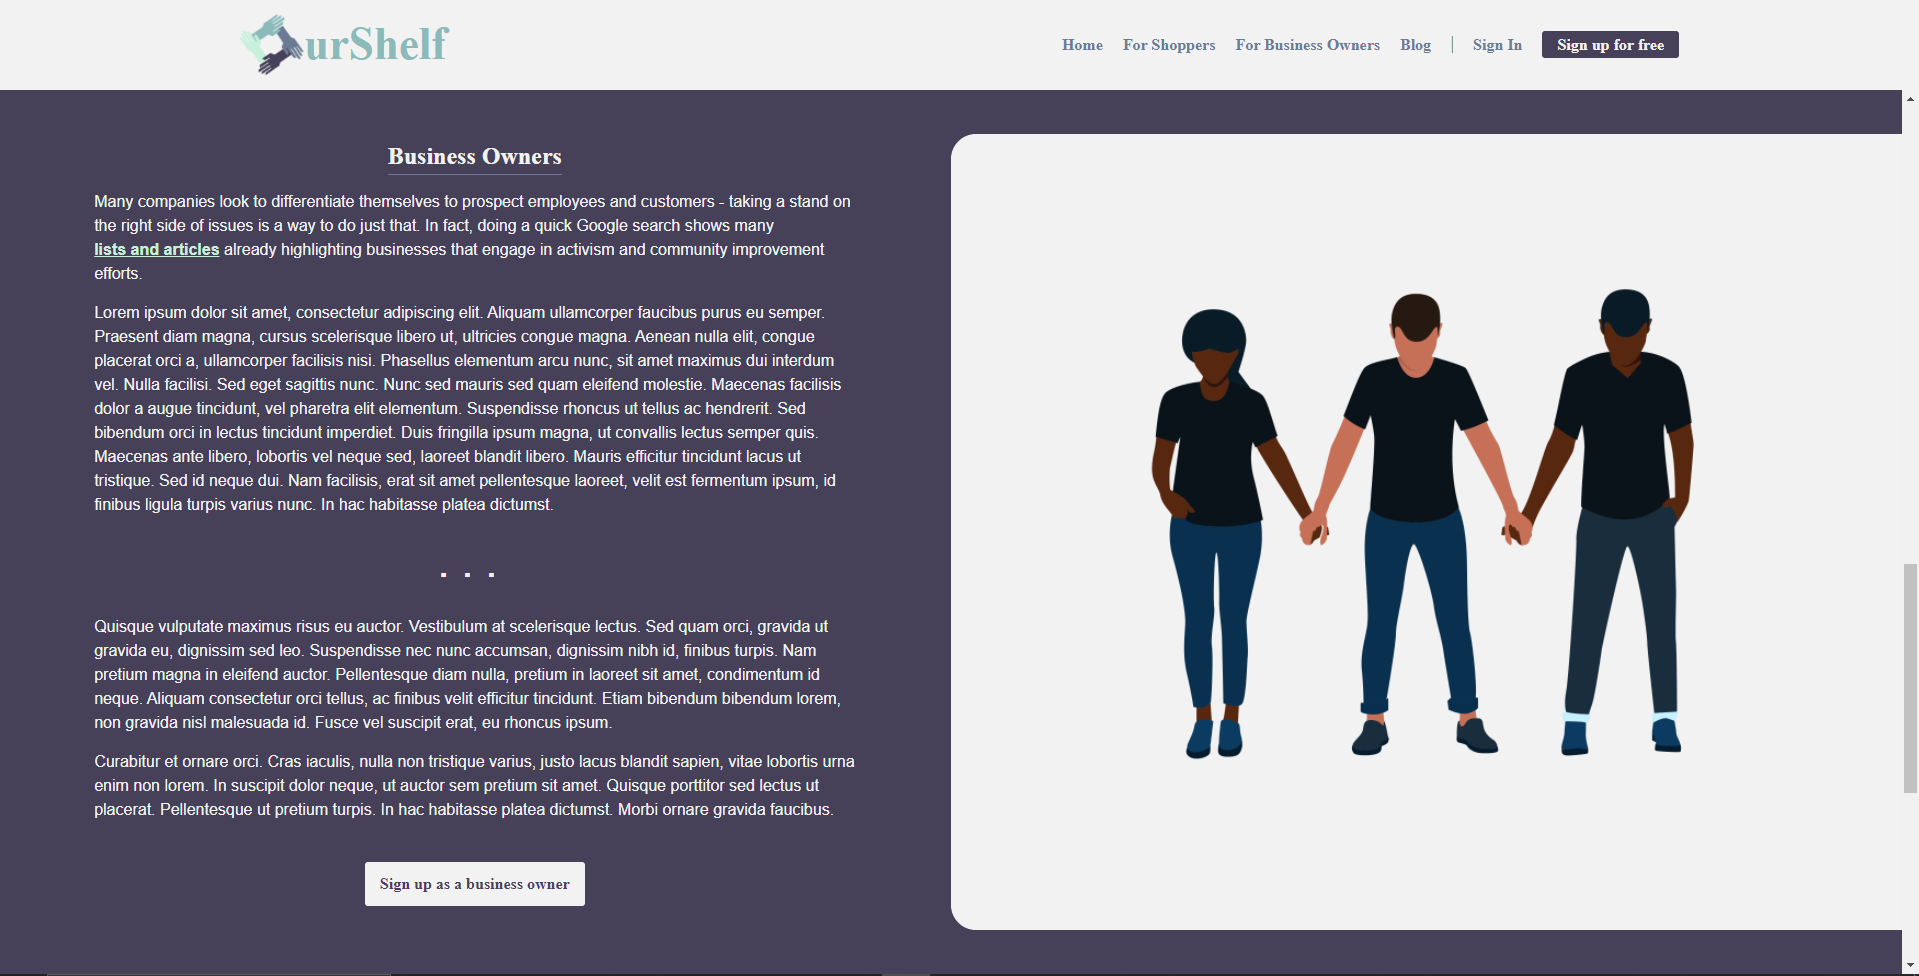
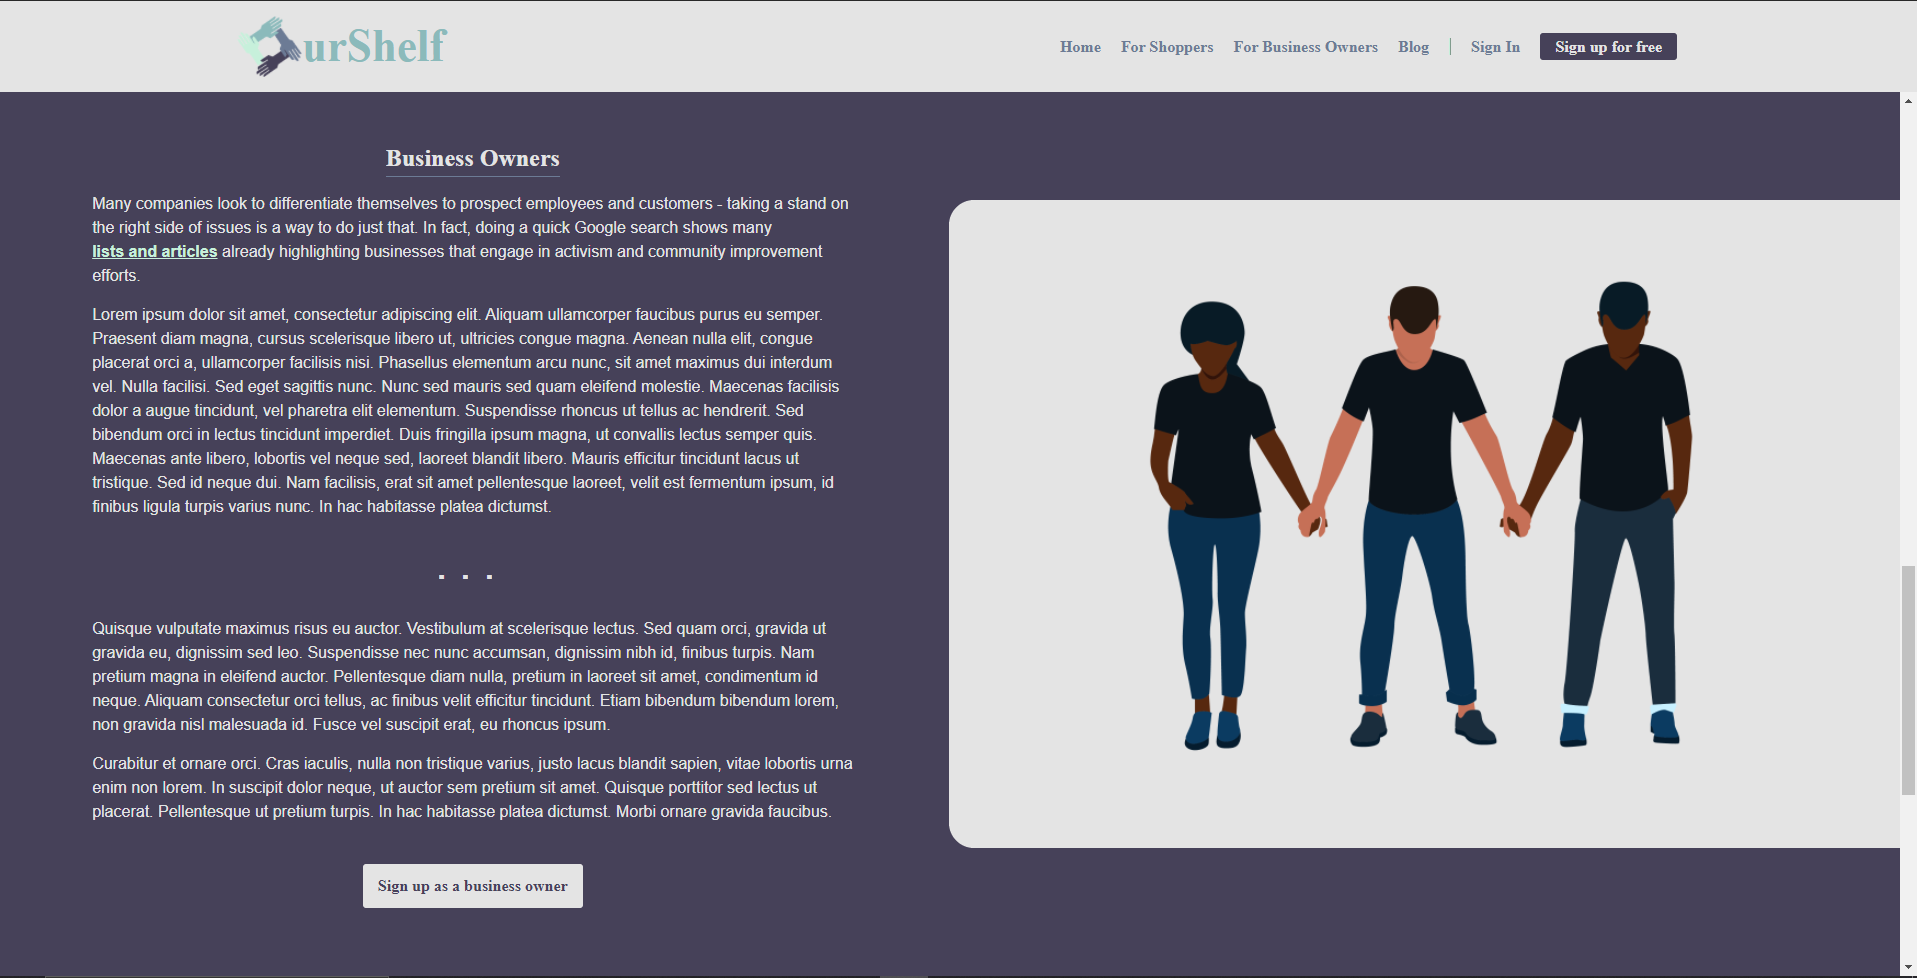
Implemented mobile view for the businesses page and footer.

diff --git a/css/footer.css b/css/footer.css
@@ -1,6 +1,9 @@
 
 .footer-view {
     height: fit-content;
+    padding-top: 20vh;
+    min-height: fit-content;
+    background-image: url('../img/noise.png');
 }
 
 .footer-view__signup-container {
@@ -11,11 +14,9 @@
 
     text-align: center;
     background-color: var(--current-background-darker);
-    border-top-left-radius: 5px;
-    border-top-right-radius: 5px;
+    border-radius: 5px;
 
     border-top: 8px solid var(--current-foreground);
-    margin-top: 20vh;
 
     padding: 55px 0px;
     position: relative;
@@ -117,4 +118,72 @@
     background-color: var(--current-foreground);
     font-size: 0.8em;
     padding: 10px 0px;
+}
+
+@media (max-width: 1050px) {
+    .footer-view__signup-container {
+        width: 75%;
+    }
+
+    .footer-grid-container {
+        width: 75%;
+    }
+}
+
+@media (max-width: 800px) {
+    .footer-view__signup-container {
+        width: 90%;
+    }
+
+    .footer-grid-container {
+        width: 90%;
+    }
+}
+
+@media (max-width: 600px) {
+    .footer-view__signup-container {
+        width: 95%;
+    }
+
+    .footer-grid-container {
+        width: 95%;
+    }
+
+    .footer-view__call-to-action {
+        font-size: 1.6em;
+    }
+}
+
+@media (max-width: 500px) {
+    .footer-view {
+        padding-top: 10vh;
+    }
+
+    .footer-view__signup-container {
+        padding: 35px 0px;
+    }
+
+    .footer-view__call-to-action {
+        font-size: 1.4em;
+    }
+
+    .footer-grid-container {
+        grid-template-columns: repeat(3, 1fr);
+    }
+
+    .footer-grid-container__item {
+        font-size: 0.9em;
+    }
+}
+
+@media (max-width: 400px) {
+    .footer-view__button {
+        display: block;
+        width: 80%;
+        margin: 10px auto;
+    }
+
+    .footer-grid-container {
+        grid-template-columns: repeat(2, 1fr);
+    }
 }

diff --git a/css/businesses.css b/css/businesses.css
@@ -2,6 +2,8 @@
 .businesses-view {
     display: grid;
     grid-template-columns: repeat(2, 1fr);
+    background-color: var(--current-foreground);
+    padding-bottom: 20px;
 }
 
 .businesses-view__section {
@@ -20,15 +22,16 @@
     border-bottom-left-radius: 25px;
     justify-self: stretch;
     align-self: center;
-    height: 90%;
+    height: 75%;
+
+    display: flex;
+    flex-direction: row;
+    justify-content: center;
+    align-items: center;
 }
 
 .businesses-art__image {
     width: 60%;
-    position: relative;
-    left: 50%;
-    top: 50%;
-    transform: translate(-50%, -50%);
 }
 
 .businesses-description__title {
@@ -77,4 +80,36 @@
     width: fit-content;
     margin: 0 auto;
     margin-top: 40px;
+}
+
+/* responsive styles */
+
+@media (max-width: 1250px) {
+    .businesses-art__art-container {
+        height: 60%;
+    }
+}
+
+@media (max-width: 1050px) {
+    .businesses-view {
+        grid-template-columns: 1fr;
+    }
+
+    .businesses-art__art-container {
+        height: fit-content;
+        margin: 0 auto;
+        margin-top: 25px;
+        width: 95%;
+        border-radius: 25px;
+    }
+
+    .businesses-art__image {
+        width: 40%;
+    }
+}
+
+@media (max-width: 650px) {
+    .businesses-art__image {
+        width: 75%;
+    }
 }

diff --git a/css/globals.css b/css/globals.css
@@ -39,14 +39,14 @@ a {
 /* global site-specific styling */
 
 .page-content-container {
-    scroll-snap-type: y mandatory;
+    scroll-snap-type: y proximity;
     overflow-y: scroll;
     height: calc(100vh - var(--header-height));
 }
 
 .page {
     /* width: 100vw; */
-    height: calc(100vh - var(--header-height));
+    min-height: calc(100vh - var(--header-height));
 
     scroll-snap-align: start;
 
@@ -85,11 +85,5 @@ a {
 @media (max-width: 500px) {
     :root {
         --header-height: 71px;
-    }
-    
-    .page-content-container {
-        /* we can't guarantee every page's content can fit within the viewport on mobile; 
-           snapping would make it impossible for users to see content that isn't immediately visible in the viewport */
-        scroll-snap-type: none;
     }
 }

diff --git a/README.md b/README.md
@@ -51,8 +51,14 @@ I used [GraphicSprings](https://www.graphicsprings.com/) to generate and modify 
 
 ### 'For Business Owners' Page
 
-![Business Owner Page Desktop](/screenshots/businesses_page.png)
+![Business Owner Page Desktop](/screenshots/businesses_page.png?)
+
+![Business Owner Page Mobile Top](/screenshots/businesses_page_mobile1.png)
+
+![Business Owner Page Mobile Bottom](/screenshots/businesses_page_mobile2.png)
 
 ### Footer 
 
-![Footer](/screenshots/footer_page.png)
+![Footer Desktop](/screenshots/footer_page.png?)
+
+![Footer Mobile](/screenshots/footer_page_mobile.png)
